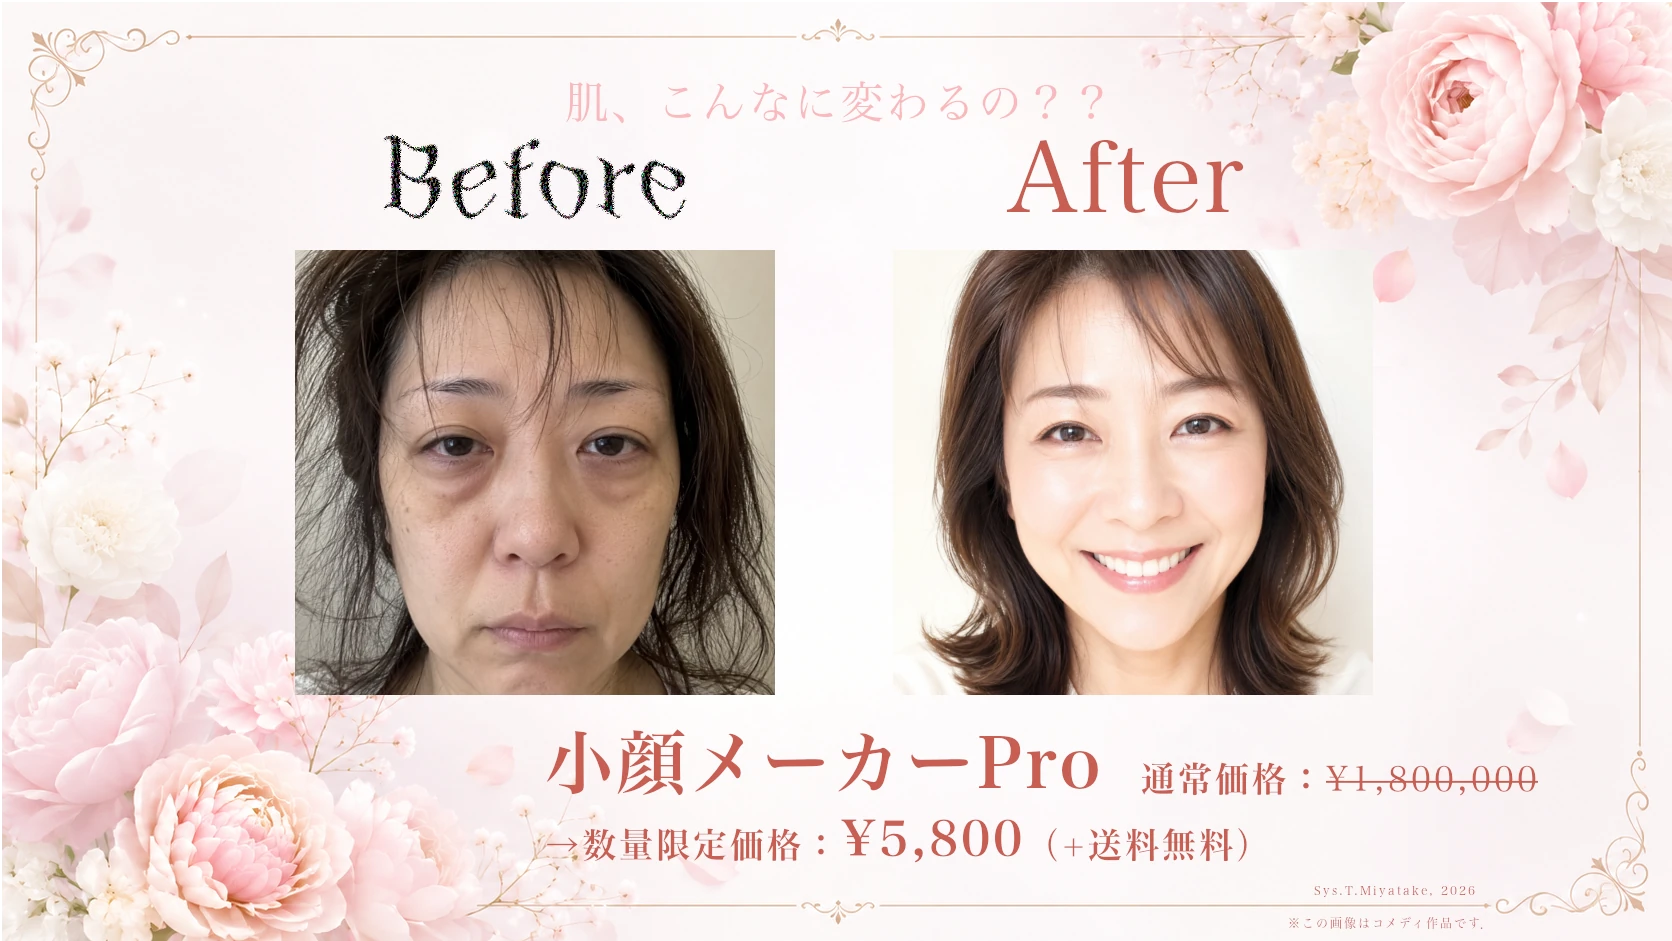
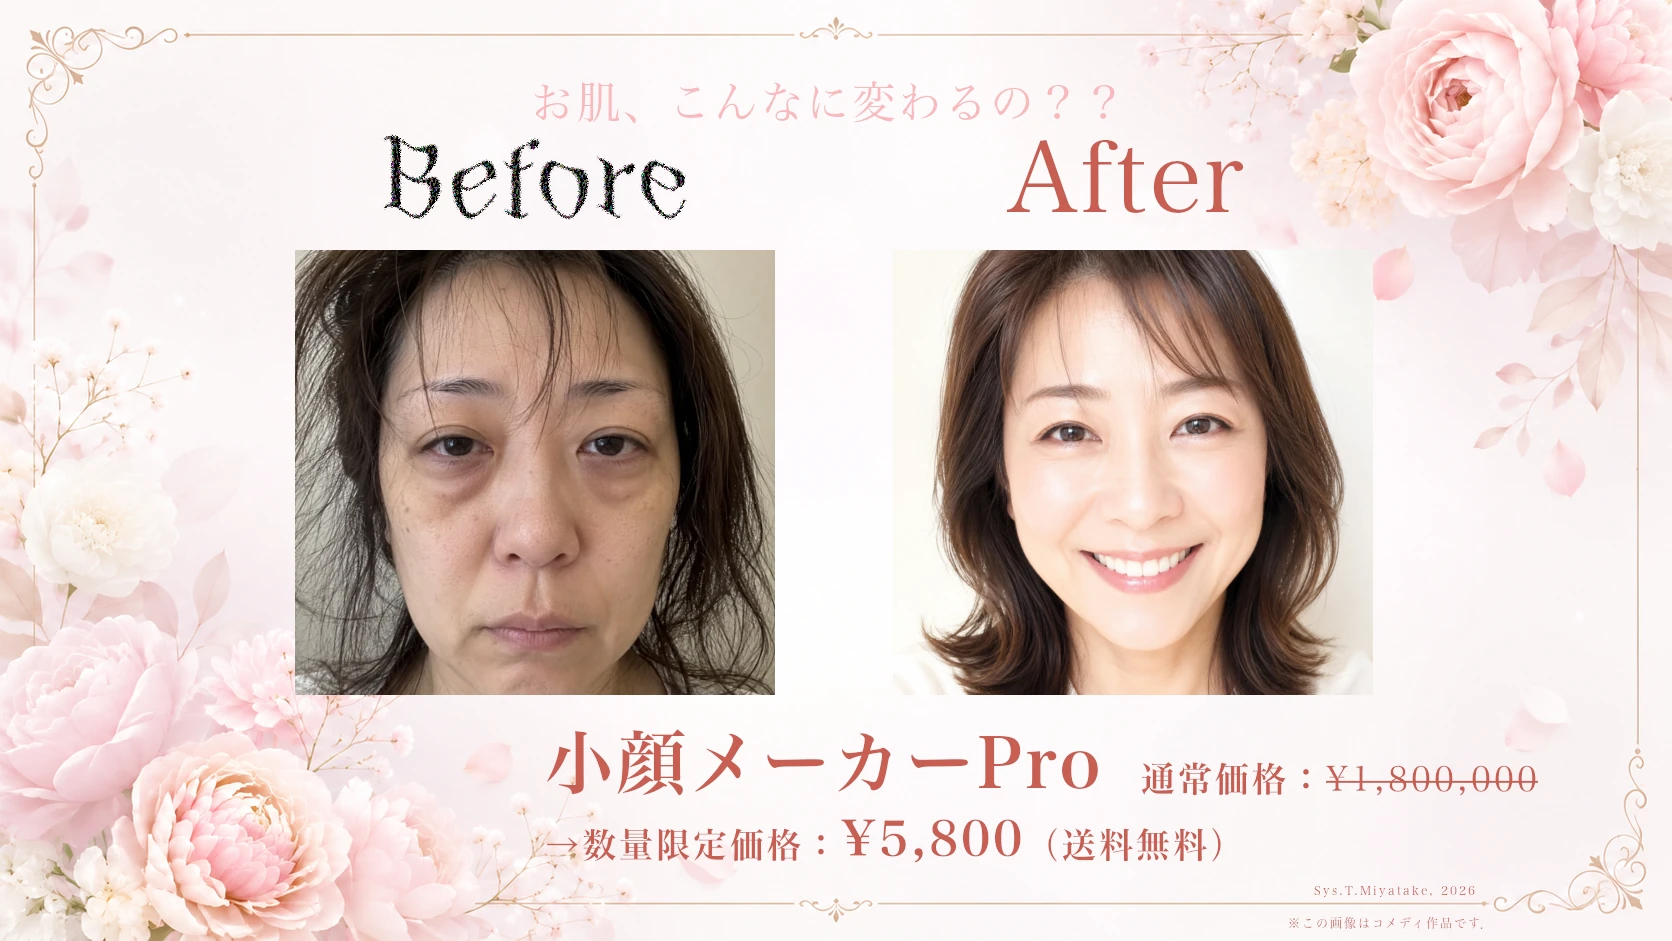
Updates Jul 23_2

diff --git a/weblog/index.html b/weblog/index.html
@@ -365,7 +365,7 @@
     <p class="article-data">#132</p>
     <h1>&#127799;いとしのビフォーアフター&#128147;</h1>
     <p class="il_img_sp"><img src="../media/others/weblog/before-after_2026.webp" class="inline_bigimg"></p>
-    <p>※この画像はコメディ作品です．素材の一部（人物の顔画像2枚と背景フレーム画像）を生成AIに出力させ，筆者が独自に制作しました．</p>
+    <p><span style="font-size: .75em; opacity: .5;">※この画像はコメディ作品です．素材の一部（人物の顔画像2枚と背景フレーム画像）を生成AIに出力させ，筆者が独自に制作しました．</span></p>
     
       <h2>その比較，本当に商品だけの差ですか？</h2>
         <p><span class="bold-font solid-under-line">照明も，表情も，ショットサイズも，全部同時に変わってる</span>のに——<br>